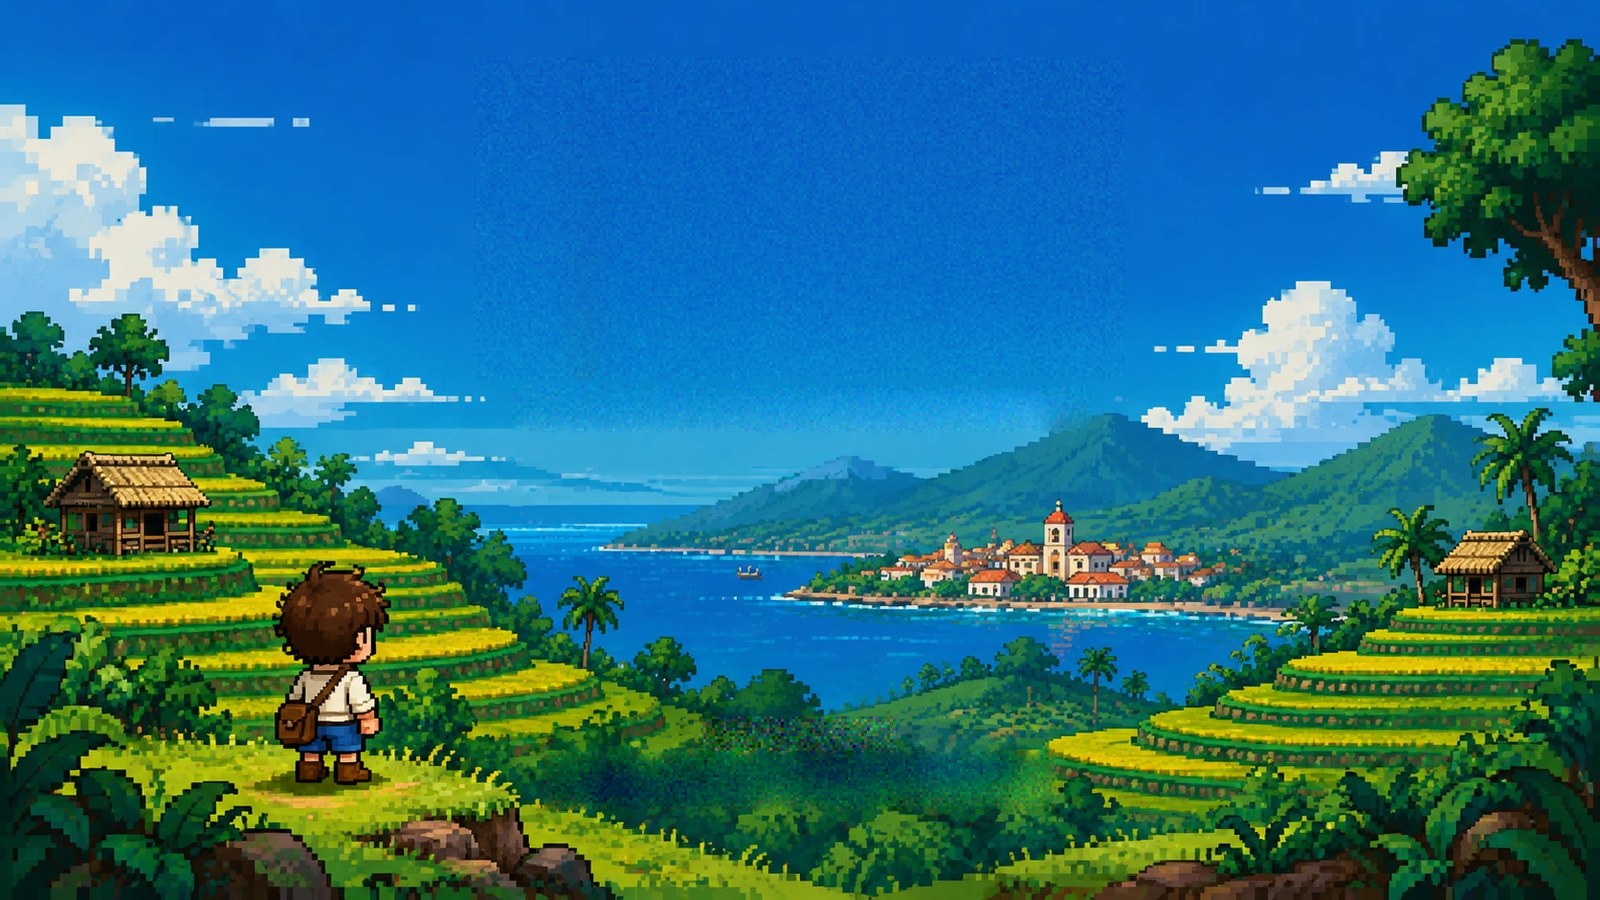
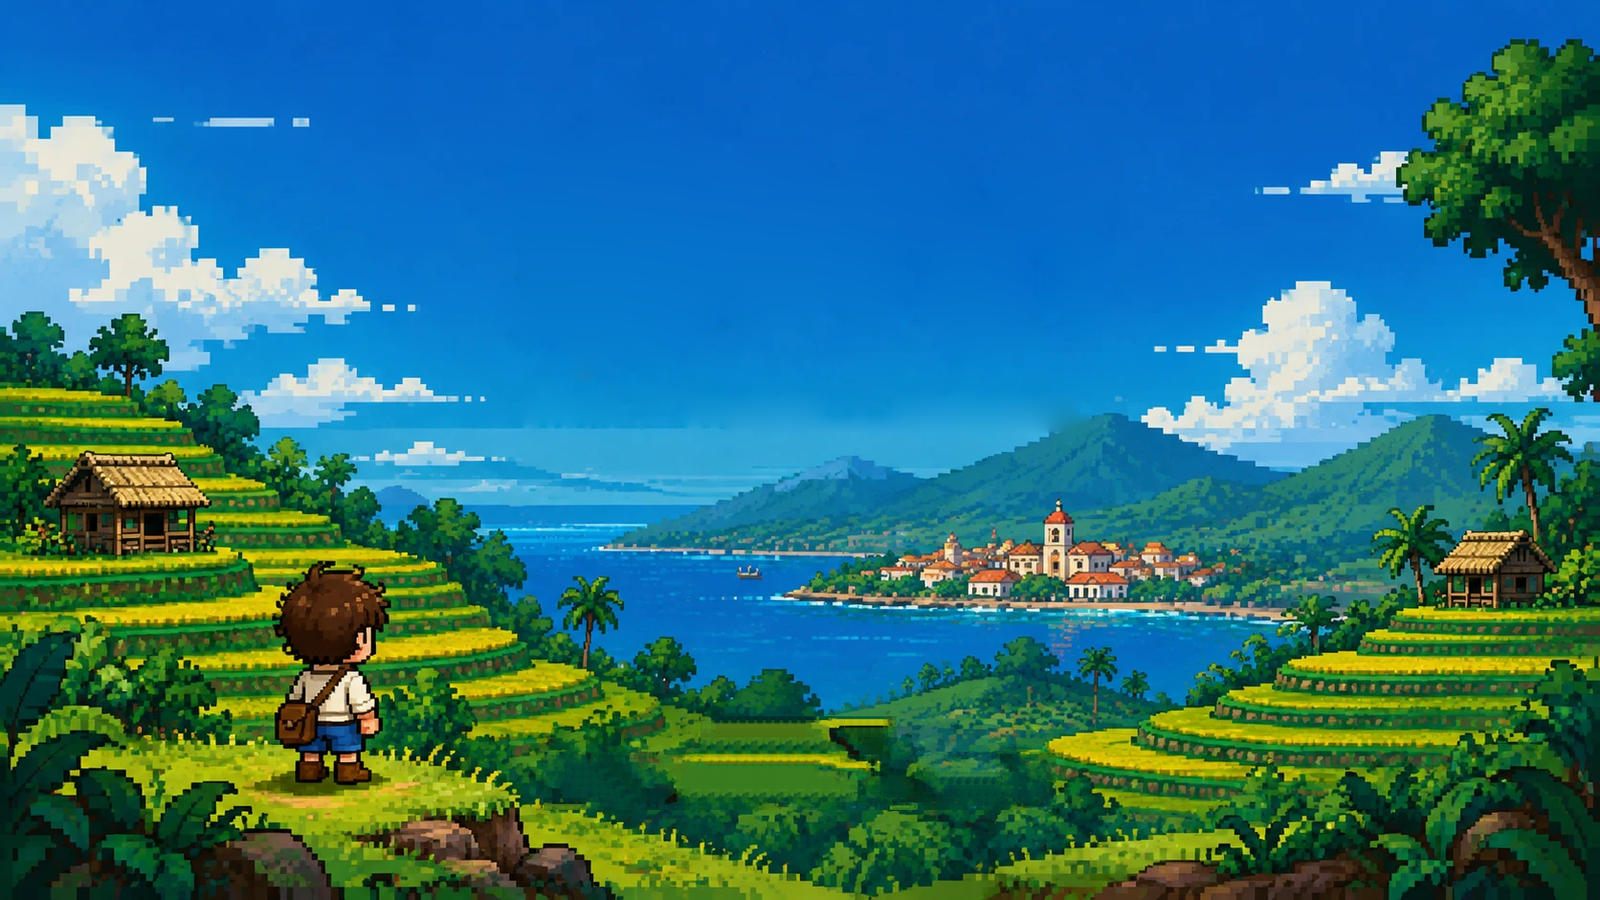
Take the concept's lettering out of the vista without leaving patches

Changed region(s): [[0.3438, 0.7778, 0.6562, 0.9022]]

diff --git a/tools/build_title_vista.py b/tools/build_title_vista.py
@@ -4,18 +4,27 @@
 The loading screen and the home screen stand on one picture -- the apo looking out over the
 place the game is set -- with the real logo, the tagline and the loading bar drawn over it
 live by the game (title_card.gd). The concept it comes from has a stand-in logo, a tagline
-and a LOADING bar painted into it, so this cuts those out:
+and a LOADING bar painted into it, so this takes those out, two ways:
 
-  * each box in ERASE is filled from its own edges -- a harmonic fill, every pixel the mean
-    of its neighbours, which is a smooth sky where the logo was and a smooth sea or field
-    where the bar was;
-  * then given back the grain of what is round it -- blocky noise, PIXEL px square, as rough
-    as the ring of picture just outside the box -- so the fill reads as the same painting
-    rather than as a smear;
-  * and scaled to 1600 x 900, the game's design size.
+  * SKY -- the logo and the tagline sit on open sky. Only what was painted is taken: every
+    pixel in the box that is not the colour of the sky beside it, grown a few pixels to
+    catch its edge, with anything it closes round (the gem in the logo) taken too. The sky
+    between the letters stays as it was. Each hole is then solved exactly from its edge
+    (every pixel the mean of its four neighbours), which is the smooth gradient the sky
+    already is -- the sky has almost no grain of its own (under one level), so nothing is
+    added to it.
+  * FOLIAGE -- the word LOADING and the bar sit on leaves, which a smooth fill turns into a
+    smear and any one patch copied from elsewhere does not fit. So they are grown back out of
+    the picture's own leaves a small square at a time, from the edges in, each
+    square the one from the foreground whose pixels best match what is already round it --
+    the picture at the edge of the hole, and the squares laid before it. (Texture quilting,
+    after Efros & Freeman, 2001.)
 
-The game draws the real logo, tagline and bar in the same places, so most of each fill is
-covered anyway; what shows is its edges, which is what the grain is for.
+Then scaled to 1600 x 900, the game's design size.
+
+(October 2026) The first build filled whole boxes and added blocky grain to them, which read
+as static in the sky and as a smear in the leaves -- Kent: "the parts where the bits are
+visible".
 
 Usage:
     python3 tools/build_title_vista.py           # writes game/assets/ui/title_vista.png
@@ -29,6 +38,9 @@ from pathlib import Path
 
 import numpy as np
 from PIL import Image
+from scipy import ndimage
+from scipy.sparse import coo_matrix
+from scipy.sparse.linalg import splu
 
 sys.path.insert(0, str(Path(__file__).resolve().parent))
 from pixelart import Pictures   # noqa: E402
@@ -39,58 +51,120 @@ OUT = ROOT / "game" / "assets" / "ui" / "title_vista.png"
 SIZE = (1600, 900)
 
 ## What the concept paints that the game draws itself, in the concept's own pixels
-## (x0, y0, x1, y1): the stand-in logo, the tagline, the word LOADING and the bar.
+## (x0, y0, x1, y1), and how each is taken out.
 ERASE = [
-    (495, 60, 1175, 396),
-    (535, 402, 1140, 452),
-    (732, 748, 938, 786),
-    (568, 785, 1104, 846),
+    ("sky", (495, 60, 1175, 396)),       # the stand-in logo
+    ("sky", (535, 402, 1140, 452)),      # DRAW · BECOME · DISCOVER
+    ("foliage", (732, 748, 938, 786)),   # LOADING...
+    ("foliage", (568, 785, 1104, 846)),  # the bar
 ]
-## How wide the ring is that a box takes its grain from, and how square the grain is.
-RING = 14
-PIXEL = 3
+## SKY: how far from the sky beside it a pixel has to be to count as painted, and how far
+## the painted shape is grown to take its soft edge as well.
+SKY_DISTANCE = 30.0
+SKY_GROW = 4
+## FOLIAGE: the squares, how much each overlaps the ones before it, how many places in the
+## foreground (BAND, rows of the concept) are tried for each, and the seed they are drawn with.
+PATCH = 14
+OVERLAP = 5
+CANDIDATES = 6000
+BAND = (560, 940)
 SEED = 20261011
 
 
-def _fill(picture: np.ndarray, box: tuple[int, int, int, int], rng: np.random.Generator) -> None:
+def _solve(picture: np.ndarray, hole: np.ndarray) -> None:
+    """Every pixel in `hole` the mean of its four neighbours, the pixels round the hole held
+    as they are: the smooth fill, solved exactly rather than swept towards."""
+    ys, xs = np.nonzero(hole)
+    index = -np.ones(hole.shape, dtype=np.int64)
+    index[ys, xs] = np.arange(ys.size)
+    rows, cols, vals = [np.arange(ys.size)], [np.arange(ys.size)], [np.full(ys.size, 4.0)]
+    right = np.zeros((ys.size, picture.shape[2]))
+    for dy, dx in ((-1, 0), (1, 0), (0, -1), (0, 1)):
+        ny, nx = ys + dy, xs + dx
+        inside = index[ny, nx] >= 0
+        rows.append(np.nonzero(inside)[0])
+        cols.append(index[ny[inside], nx[inside]])
+        vals.append(np.full(int(inside.sum()), -1.0))
+        right[~inside] += picture[ny[~inside], nx[~inside]]
+    a = coo_matrix((np.concatenate(vals), (np.concatenate(rows), np.concatenate(cols))),
+                   shape=(ys.size, ys.size)).tocsc()
+    lu = splu(a)
+    for channel in range(picture.shape[2]):
+        picture[ys, xs, channel] = lu.solve(right[:, channel])
+
+
+def _sky(picture: np.ndarray, box: tuple[int, int, int, int]) -> None:
     x0, y0, x1, y1 = box
-    # The box plus one pixel all round: the border row stays fixed, and is what flows in.
-    region = picture[y0 - 1:y1 + 1, x0 - 1:x1 + 1].copy()
-    # Started from the four edges blended in (a Coons patch), not from their mean: the sky is a
-    # gradient top to bottom, and a fill started flat never quite lost it -- a paler block
-    # stood where the logo had been. The sweeps then only smooth what the patch got nearly right.
-    rows, cols = region.shape[0], region.shape[1]
-    v = np.linspace(0.0, 1.0, rows)[:, None, None]
-    u = np.linspace(0.0, 1.0, cols)[None, :, None]
-    top, bottom = region[0][None, :, :], region[-1][None, :, :]
-    left, right = region[:, 0][:, None, :], region[:, -1][:, None, :]
-    corners = ((1 - u) * (1 - v) * region[0, 0] + u * (1 - v) * region[0, -1]
-               + (1 - u) * v * region[-1, 0] + u * v * region[-1, -1])
-    patch = (1 - v) * top + v * bottom + (1 - u) * left + u * right - corners
-    region[1:-1, 1:-1] = patch[1:-1, 1:-1]
-    for _sweep in range(400):
-        neighbours = (region[:-2, 1:-1] + region[2:, 1:-1] + region[1:-1, :-2] + region[1:-1, 2:]) * 0.25
-        region[1:-1, 1:-1] = neighbours
-    # The grain of what is round the box -- the RING only. Measured over the box as well, it
-    # took the stand-in logo's own edges for the sky's grain and filled the sky with static.
-    ry0, rx0 = max(0, y0 - RING), max(0, x0 - RING)
-    around = picture[ry0:y1 + RING, rx0:x1 + RING]
-    keep = np.ones(around.shape[:2], dtype=bool)
-    keep[y0 - ry0:y1 - ry0, x0 - rx0:x1 - rx0] = False
-    spread = around[keep].std(axis=0) * 0.35
-    h, w = y1 - y0, x1 - x0
-    blocks = rng.normal(0.0, 1.0, ((h + PIXEL - 1) // PIXEL, (w + PIXEL - 1) // PIXEL, 3))
-    grain = np.repeat(np.repeat(blocks, PIXEL, axis=0), PIXEL, axis=1)[:h, :w] * spread
-    region[1:-1, 1:-1] += grain
-    picture[y0:y1, x0:x1] = region[1:-1, 1:-1]
+    region = picture[y0:y1, x0:x1]
+    # The sky beside the box, row by row, blended across it: what an unpainted pixel would be.
+    left = picture[y0:y1, x0 - 3:x0].mean(axis=1)
+    right = picture[y0:y1, x1:x1 + 3].mean(axis=1)
+    t = np.linspace(0.0, 1.0, x1 - x0)[None, :, None]
+    expected = left[:, None, :] * (1.0 - t) + right[:, None, :] * t
+    painted = np.linalg.norm(region - expected, axis=2) > SKY_DISTANCE
+    painted = ndimage.binary_dilation(painted, iterations=SKY_GROW)
+    painted = ndimage.binary_fill_holes(painted)
+    hole = np.zeros(picture.shape[:2], dtype=bool)
+    hole[y0:y1, x0:x1] = painted
+    _solve(picture, hole)
+
+
+def _foliage(picture: np.ndarray, boxes: list[tuple[int, int, int, int]], avoid: np.ndarray) -> None:
+    """All the leafy boxes as one hole, grown back a square at a time. Not a strip copied from
+    one other place and blended in: that took the terraces for the leaves' match and blended
+    them into an orange glow."""
+    height, width = picture.shape[:2]
+    hole = np.zeros((height, width), dtype=bool)
+    for x0, y0, x1, y1 in boxes:
+        hole[y0:y1, x0:x1] = True
+    # Where squares may come from: the foreground, clear of every box being taken out.
+    rng = np.random.default_rng(SEED)
+    blocked = np.pad(avoid, ((1, 0), (1, 0))).cumsum(0).cumsum(1)
+    ys = rng.integers(BAND[0], BAND[1] - PATCH, CANDIDATES * 3)
+    xs = rng.integers(0, width - PATCH, CANDIDATES * 3)
+    covered = (blocked[ys + PATCH, xs + PATCH] - blocked[ys, xs + PATCH]
+               - blocked[ys + PATCH, xs] + blocked[ys, xs])
+    ys, xs = ys[covered == 0][:CANDIDATES], xs[covered == 0][:CANDIDATES]
+    grid = np.arange(PATCH)
+    squares = picture[ys[:, None, None] + grid[None, :, None], xs[:, None, None] + grid[None, None, :]]
+    known = ~hole
+    step = PATCH - OVERLAP
+    top, bottom = min(b[1] for b in boxes), max(b[3] for b in boxes)
+    left, right = min(b[0] for b in boxes), max(b[2] for b in boxes)
+    windows = [(y, x) for y in range(top - OVERLAP, bottom, step)
+               for x in range(left - OVERLAP, right, step) if hole[y:y + PATCH, x:x + PATCH].any()]
+    # FROM THE EDGES IN: always the square that already has the most picture round it. Laid
+    # left to right instead, the terraces at the bar's right end were matched square after
+    # square along the whole row, and the hole's top edge showed as a straight line.
+    while windows:
+        context = [known[y:y + PATCH, x:x + PATCH].sum() for y, x in windows]
+        y, x = windows.pop(int(np.argmax(context)))
+        window = (slice(y, y + PATCH), slice(x, x + PATCH))
+        empty = hole[window] & ~known[window]
+        if not empty.any():
+            continue
+        seen = known[window][None, :, :, None]
+        cost = (np.square(squares - picture[window][None]) * seen).sum(axis=(1, 2, 3))
+        chosen = squares[int(np.argmin(cost))]
+        # Where it overlaps a square already laid, the two are averaged, softening the join;
+        # the picture outside the hole is never touched.
+        laid = hole[window] & known[window]
+        picture[window][laid] = (picture[window][laid] + chosen[laid]) * 0.5
+        picture[window][empty] = chosen[empty]
+        known[window] |= empty
 
 
 def build() -> Image.Image:
     picture = np.asarray(Image.open(SOURCE).convert("RGB"), dtype=np.float64)
-    rng = np.random.default_rng(SEED)
-    for box in ERASE:
-        _fill(picture, box, rng)
-    cleaned = Image.fromarray(np.clip(picture, 0, 255).astype(np.uint8), "RGB")
+    # Nothing is copied FROM a box still to be taken out.
+    avoid = np.zeros(picture.shape[:2], dtype=bool)
+    for _kind, (x0, y0, x1, y1) in ERASE:
+        avoid[y0:y1, x0:x1] = True
+    for kind, box in ERASE:
+        if kind == "sky":
+            _sky(picture, box)
+    _foliage(picture, [box for kind, box in ERASE if kind == "foliage"], avoid)
+    cleaned = Image.fromarray(np.clip(np.rint(picture), 0, 255).astype(np.uint8), "RGB")
     return cleaned.resize(SIZE, Image.LANCZOS)
 
 
